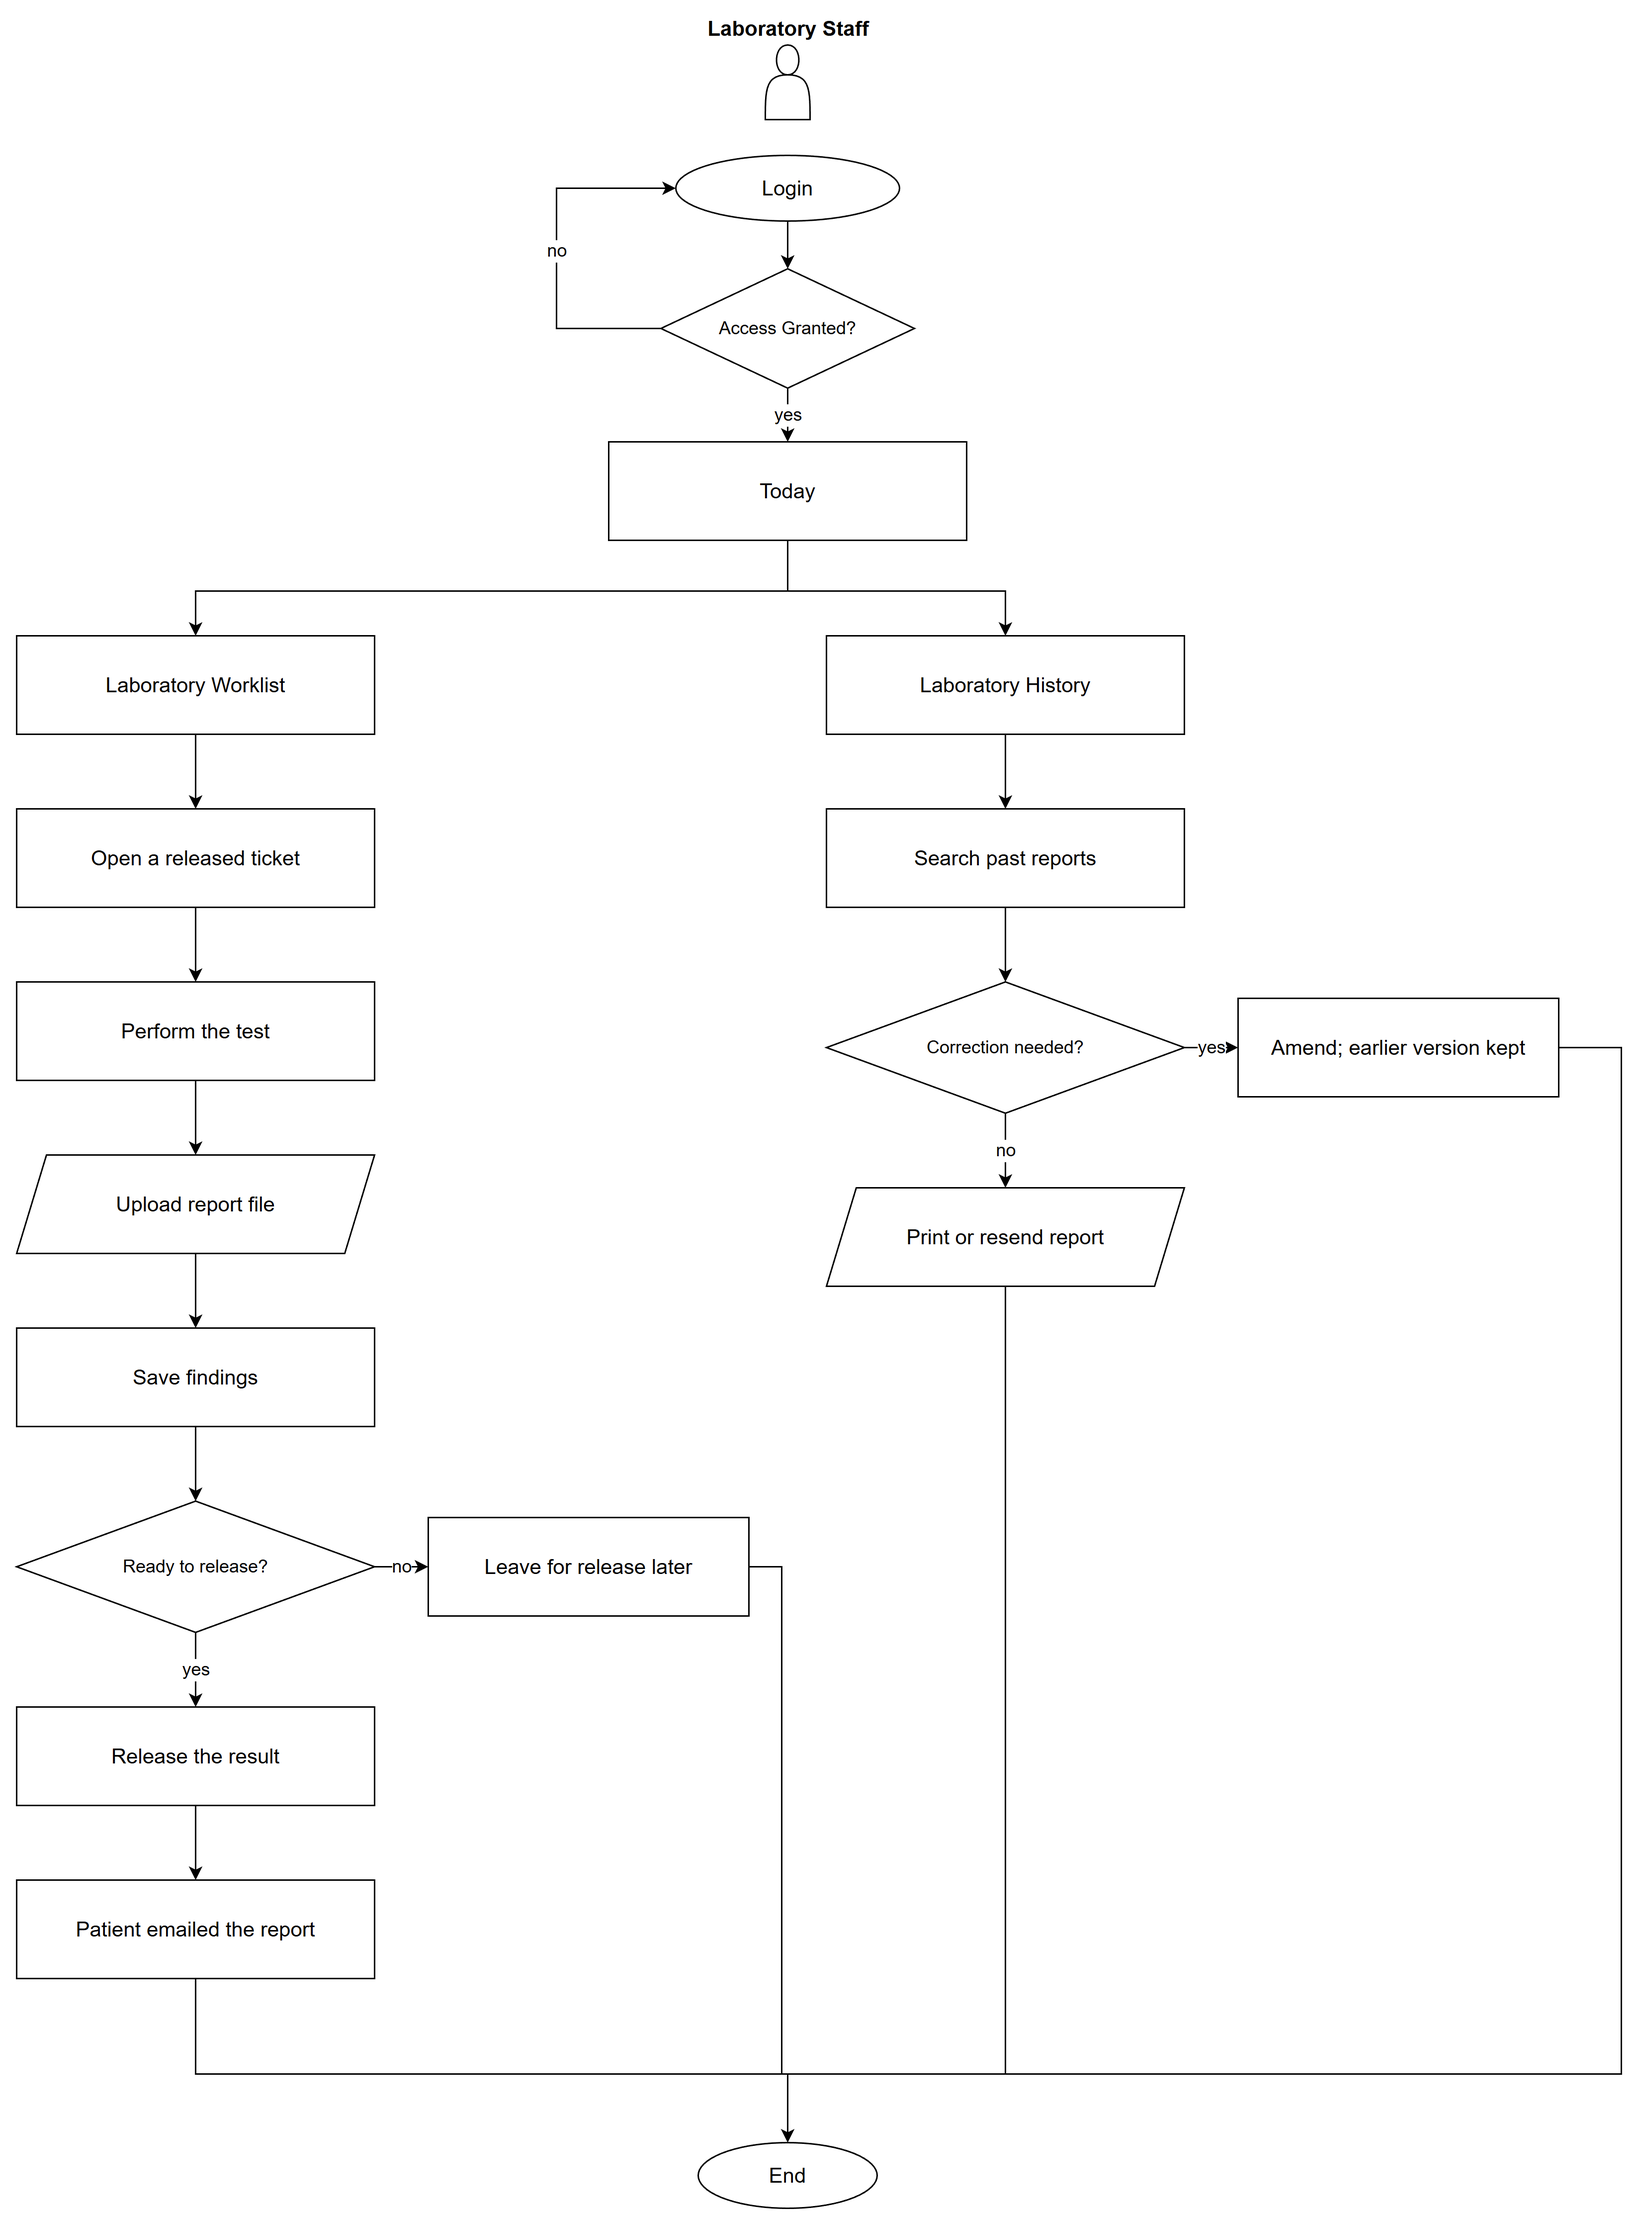
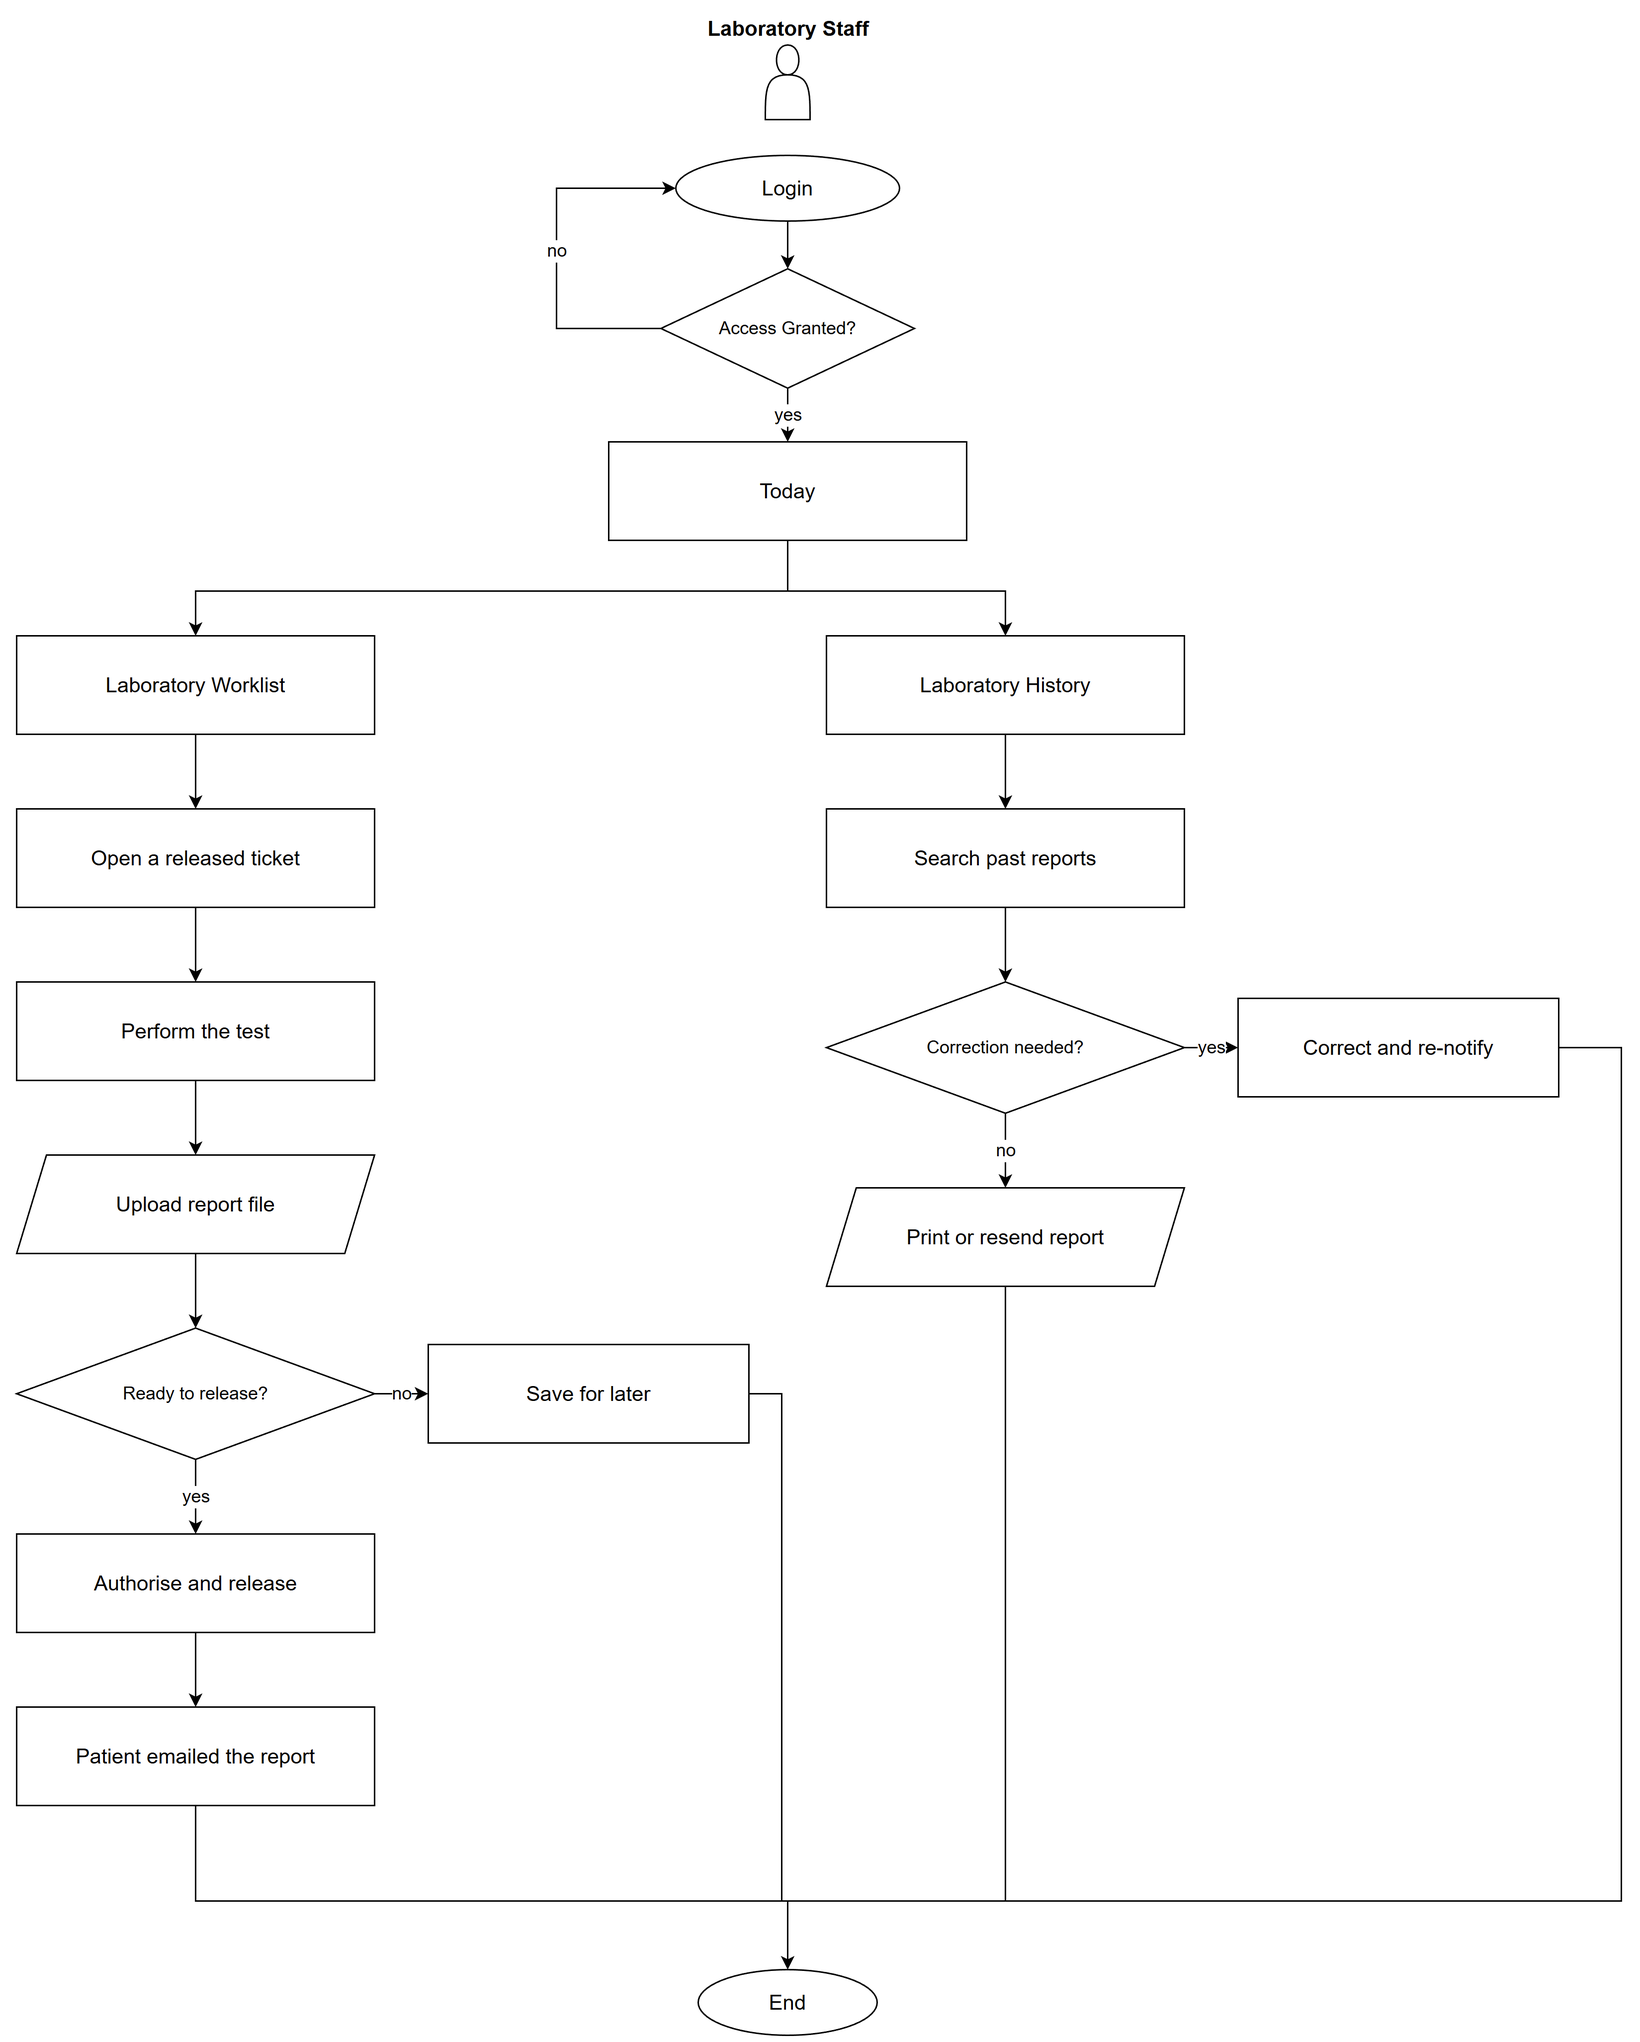
Follow the report file in the department charts
[1.104.0] Merged Diazzzz-cpu's work, which had already landed the
critical-value removal independently and then merged mine. One of their
changes moves a diagram: "The report is the document, not the typing"
took the templates, the measurement grid, Findings and Remarks out of
the result entry dialog, so a result IS the uploaded file, demanded at
release rather than at save, and "Save Findings" became "Save for
Later".

The three department flowcharts said "Save findings" and "Release the
result". They now read Upload report file → Ready to release? →
Authorise and release, with the no branch going to "Save for later" —
the two buttons the dialog offers — and correcting a released report on
History reads "Correct and re-notify", which is its button too.

The ERD is unchanged and still right: the field-set tables are still in
the database, the grid was removed from the screen, and the ERD is read
from the live database.

diff --git a/database/migrations.md b/database/migrations.md
@@ -1,5 +1,25 @@
 # Database Migration & Schema History
 
+## [1.104.0] - 2026-10-12 (The department chart follows the report file, after the entry form changed)
+
+No migration. Documentation only.
+
+Merged Diazzzz-cpu's work, which had already landed the critical-value removal independently and
+then merged mine. One of their changes moves a diagram: "The report is the document, not the
+typing" took the templates, the measurement grid, Findings and Remarks out of the result entry
+dialog, so a result IS the uploaded file, and the file is demanded at RELEASE rather than at save.
+"Save Findings" became "Save for Later" because that is what it does.
+
+The three department flowcharts said "Save findings" and "Release the result". They now read
+Upload report file → Ready to release? → Authorise and release, with the no branch going to "Save
+for later" — the two buttons the dialog actually offers — and correcting a released report on
+History reads "Correct and re-notify", which is its button too.
+
+**The ERD is unchanged and still right.** `result_field_sets`, `result_fields`,
+`result_field_set_tests` and `result_measurements` are still in the database — the grid was
+removed from the screen, not the tables from the schema — and the ERD is generated from the live
+database, so it keeps drawing all 36.
+
 ## [1.103.0] - 2026-10-12 (The diagrams checked against the system, and the two places they disagreed)
 
 No migration. Documentation only.
